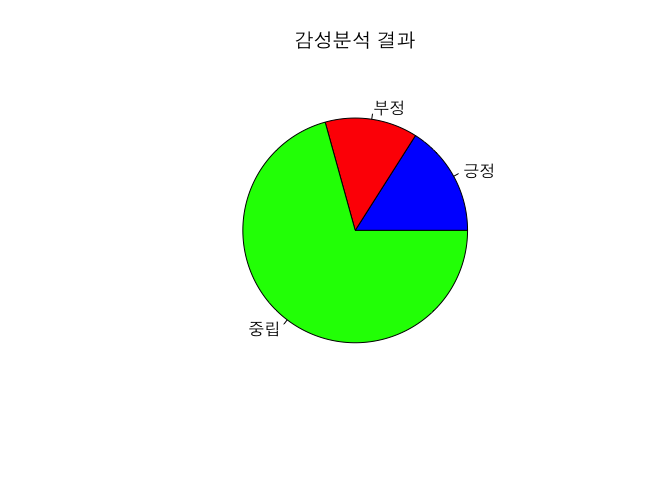
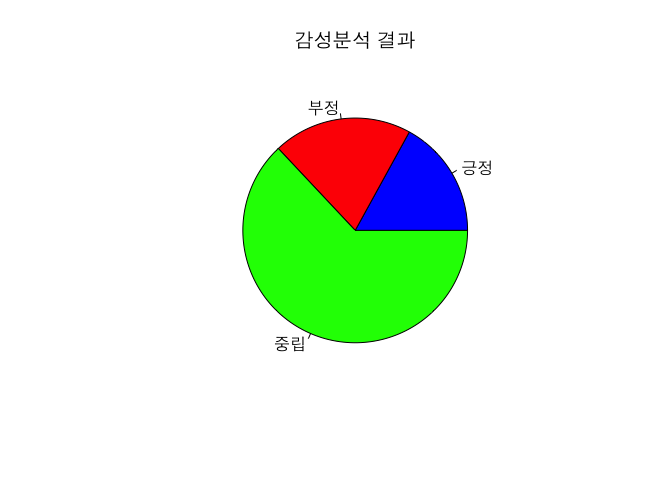
.

diff --git a/추가 내용/감성분석.md b/추가 내용/감성분석.md
@@ -55,55 +55,121 @@ head(negative)
     ## [1] "가난"         "가난뱅이"     "가난살이"     "가난살이하다" "가난설음"    
     ## [6] "가난에"
 
--   긍정어/부정어 비교 함수
+-   긍정어/부정어
 
 ``` r
-sentimental = function(sentences, positive, negative){
-  scores = laply(sentences, function(sentence, positive, negative){
-    sentence = gsub('[[:punct:]]', '', sentence) # 문장부호 제거
-    sentence = gsub('[[:cntrl:]]', '', sentence) # 특수문자 제거
-    sentence = gsub('\\d+', '', sentence) # 숫자 제거
+sentimental <- function(sentences, positive, negative){
+  scores <- laply(sentences, function(sentence, positive, negative){
+    sentence <- gsub('[[:punct:]]', '', sentence) # 문장부호 제거
+    sentence <- gsub('[[:cntrl:]]', '', sentence) # 특수문자 제거
+    sentence <- gsub('\\d+', '', sentence) # 숫자 제거
     
-    word.list = str_split(sentence, '\\s+') # 공백 기준으로 단어 생성
-    words = unlist(word.list)
+    word.list <- str_split(sentence, '\\s+') # 공백 기준으로 단어 생성
+    words <- unlist(word.list)
     
-    pos.matches = match(words, positive) # words와 positive 사전과 매칭
-    neg.matches = match(words, negative)
+    pos.matches <- match(words, positive) # words와 positive 사전과 매칭
+    neg.matches <- match(words, negative)
     
-    pos.matches = !is.na (pos.matches)
-    neg.matches = !is.na (neg.matches)
+    pos_word <- list(word.list[word.list %in% positive])
+    neg_word <- list(word.list[word.list %in% negative])
     
-    score = sum(pos.matches) - sum(neg.matches) # 점수=(긍정-부정)
+    pos.matches <- !is.na (pos.matches)
+    neg.matches <- !is.na (neg.matches)
+    
+    score <- sum(pos.matches) - sum(neg.matches) # 점수=(긍정-부정)
+    
     return(score)
   },positive, negative)
   
-  scores.df = data.frame(score=scores, text=sentences)
-  return(scores.df)
+  senti.df <- data.frame(text=sentences, score=scores)
+  return(senti.df)
 }
 ```
 
 ``` r
-result = sentimental(txt, positive,negative)
+result <- sentimental(txt[1:100], positive,negative)
 
 result$remark[result$score >= 1] <- '긍정'
 result$remark[result$score == 0] <- '중립'
 result$remark[result$score < 0] <- '부정'
 
+
 table(result$remark)
 ```
 
     ## 
-    ##   긍정   부정   중립 
-    ##  23991  19978 106031
+    ## 긍정 부정 중립 
+    ##   17   20   63
 
 -   시각화
 
 ``` r
 sentimental_result = table(result$remark)
+prop.table(sentimental_result)
+```
 
+    ## 
+    ## 긍정 부정 중립 
+    ## 0.17 0.20 0.63
+
+``` r
 pie(sentimental_result, main = '감성분석 결과',
     col=c('blue','red','green'),
     family="AppleGothic")
 ```
 
 ![](감성분석_files/figure-markdown_github/unnamed-chunk-7-1.png)
+
+``` r
+library(wordcloud)
+```
+
+    ## Loading required package: RColorBrewer
+
+``` r
+library(tidyverse)
+```
+
+    ## ── Attaching core tidyverse packages ──────────────────────── tidyverse 2.0.0 ──
+    ## ✔ dplyr     1.1.4     ✔ purrr     1.0.2
+    ## ✔ forcats   1.0.0     ✔ readr     2.1.5
+    ## ✔ ggplot2   3.4.4     ✔ tibble    3.2.1
+    ## ✔ lubridate 1.9.3     ✔ tidyr     1.3.0
+
+    ## ── Conflicts ────────────────────────────────────────── tidyverse_conflicts() ──
+    ## ✖ dplyr::arrange()   masks plyr::arrange()
+    ## ✖ purrr::compact()   masks plyr::compact()
+    ## ✖ dplyr::count()     masks plyr::count()
+    ## ✖ dplyr::desc()      masks plyr::desc()
+    ## ✖ dplyr::failwith()  masks plyr::failwith()
+    ## ✖ dplyr::filter()    masks stats::filter()
+    ## ✖ dplyr::id()        masks plyr::id()
+    ## ✖ dplyr::lag()       masks stats::lag()
+    ## ✖ dplyr::mutate()    masks plyr::mutate()
+    ## ✖ dplyr::rename()    masks plyr::rename()
+    ## ✖ dplyr::summarise() masks plyr::summarise()
+    ## ✖ dplyr::summarize() masks plyr::summarize()
+    ## ℹ Use the conflicted package (<http://conflicted.r-lib.org/>) to force all conflicts to become errors
+
+``` r
+library(tidytext)
+
+
+positive.df <- data.frame(word = positive, score=1)
+negative.df <- data.frame(word = negative, score=-1) 
+
+result %>% 
+  unnest_tokens(output = word, input = text,
+                token = "words") %>% 
+  inner_join(rbind(positive.df,negative.df)) %>%
+  count(word, remark, sort = TRUE) %>% 
+  pivot_wider(names_from = remark, values_from = n, values_fill = 0)  %>%
+  column_to_rownames(var = "word") %>% 
+  comparison.cloud(colors = c('blue','red'),
+                   family="AppleGothic", 
+                   max.words=20)
+```
+
+    ## Joining with `by = join_by(score, word)`
+
+![](감성분석_files/figure-markdown_github/unnamed-chunk-8-1.png)
